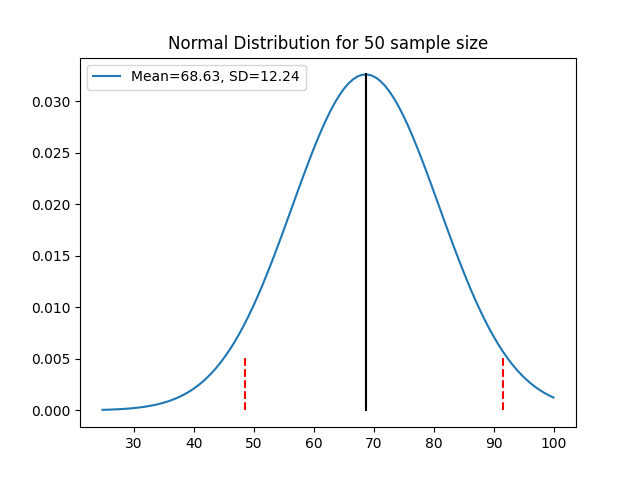
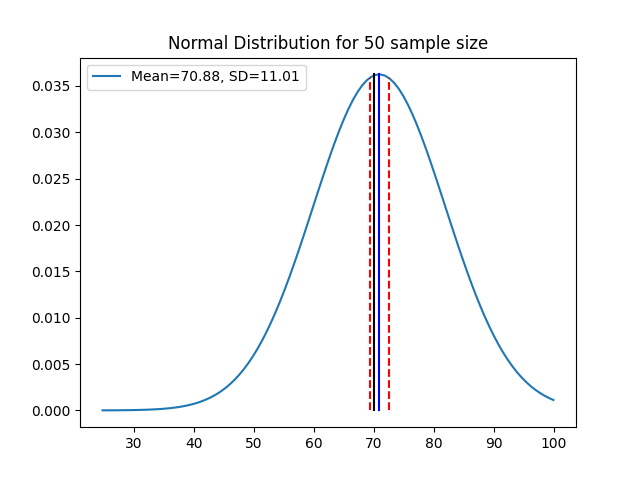
1

diff --git a/confidence_interval_and_sampling_statistics/main.py b/confidence_interval_and_sampling_statistics/main.py
@@ -89,10 +89,11 @@ y = norm.pdf(x, sample_means[0], sample_std_devs[0])
 plt.plot(x, y, label='Mean={:.2f}, SD={:.2f}'.format(sample_means[0], sample_std_devs[0]))
 plt.title('Normal Distribution for 50 sample size')
 y_mean = norm.pdf(sample_means[0], sample_means[0], sample_std_devs[0])
-plt.plot([sample_means[0], sample_means[0]], [0, y_mean], color='black')
-y_std_dev1 = norm.pdf(mean - 1.96*std_dev, mean, std_dev)
-y_std_dev2 = norm.pdf(mean + 1.96*std_dev, mean, std_dev)
-plt.plot([mean - 1.96*std_dev, mean - 1.96*std_dev], [0, y_std_dev1], color='red', linestyle='dashed')
-plt.plot([mean + 1.96*std_dev, mean + 1.96*std_dev], [0, y_std_dev2], color='red', linestyle='dashed')
+plt.plot([sample_means[0], sample_means[0]], [0, y_mean], color='blue')
+y_std_dev1 = norm.pdf(sample_means[0] + standard_errors[0], sample_means[0], sample_std_devs[0])
+y_std_dev2 = norm.pdf(sample_means[0] - standard_errors[0], sample_means[0], sample_std_devs[0])
+plt.plot([sample_means[0] + standard_errors[0], sample_means[0] + standard_errors[0]], [0, y_std_dev1], color='red', linestyle='dashed')
+plt.plot([sample_means[0] - standard_errors[0], sample_means[0] - standard_errors[0]], [0, y_std_dev2], color='red', linestyle='dashed')
+plt.plot([mean, mean], [0, y_mean], color='black')
 plt.legend()
 plt.savefig('Normal Distribution for 50 sample size.png')
